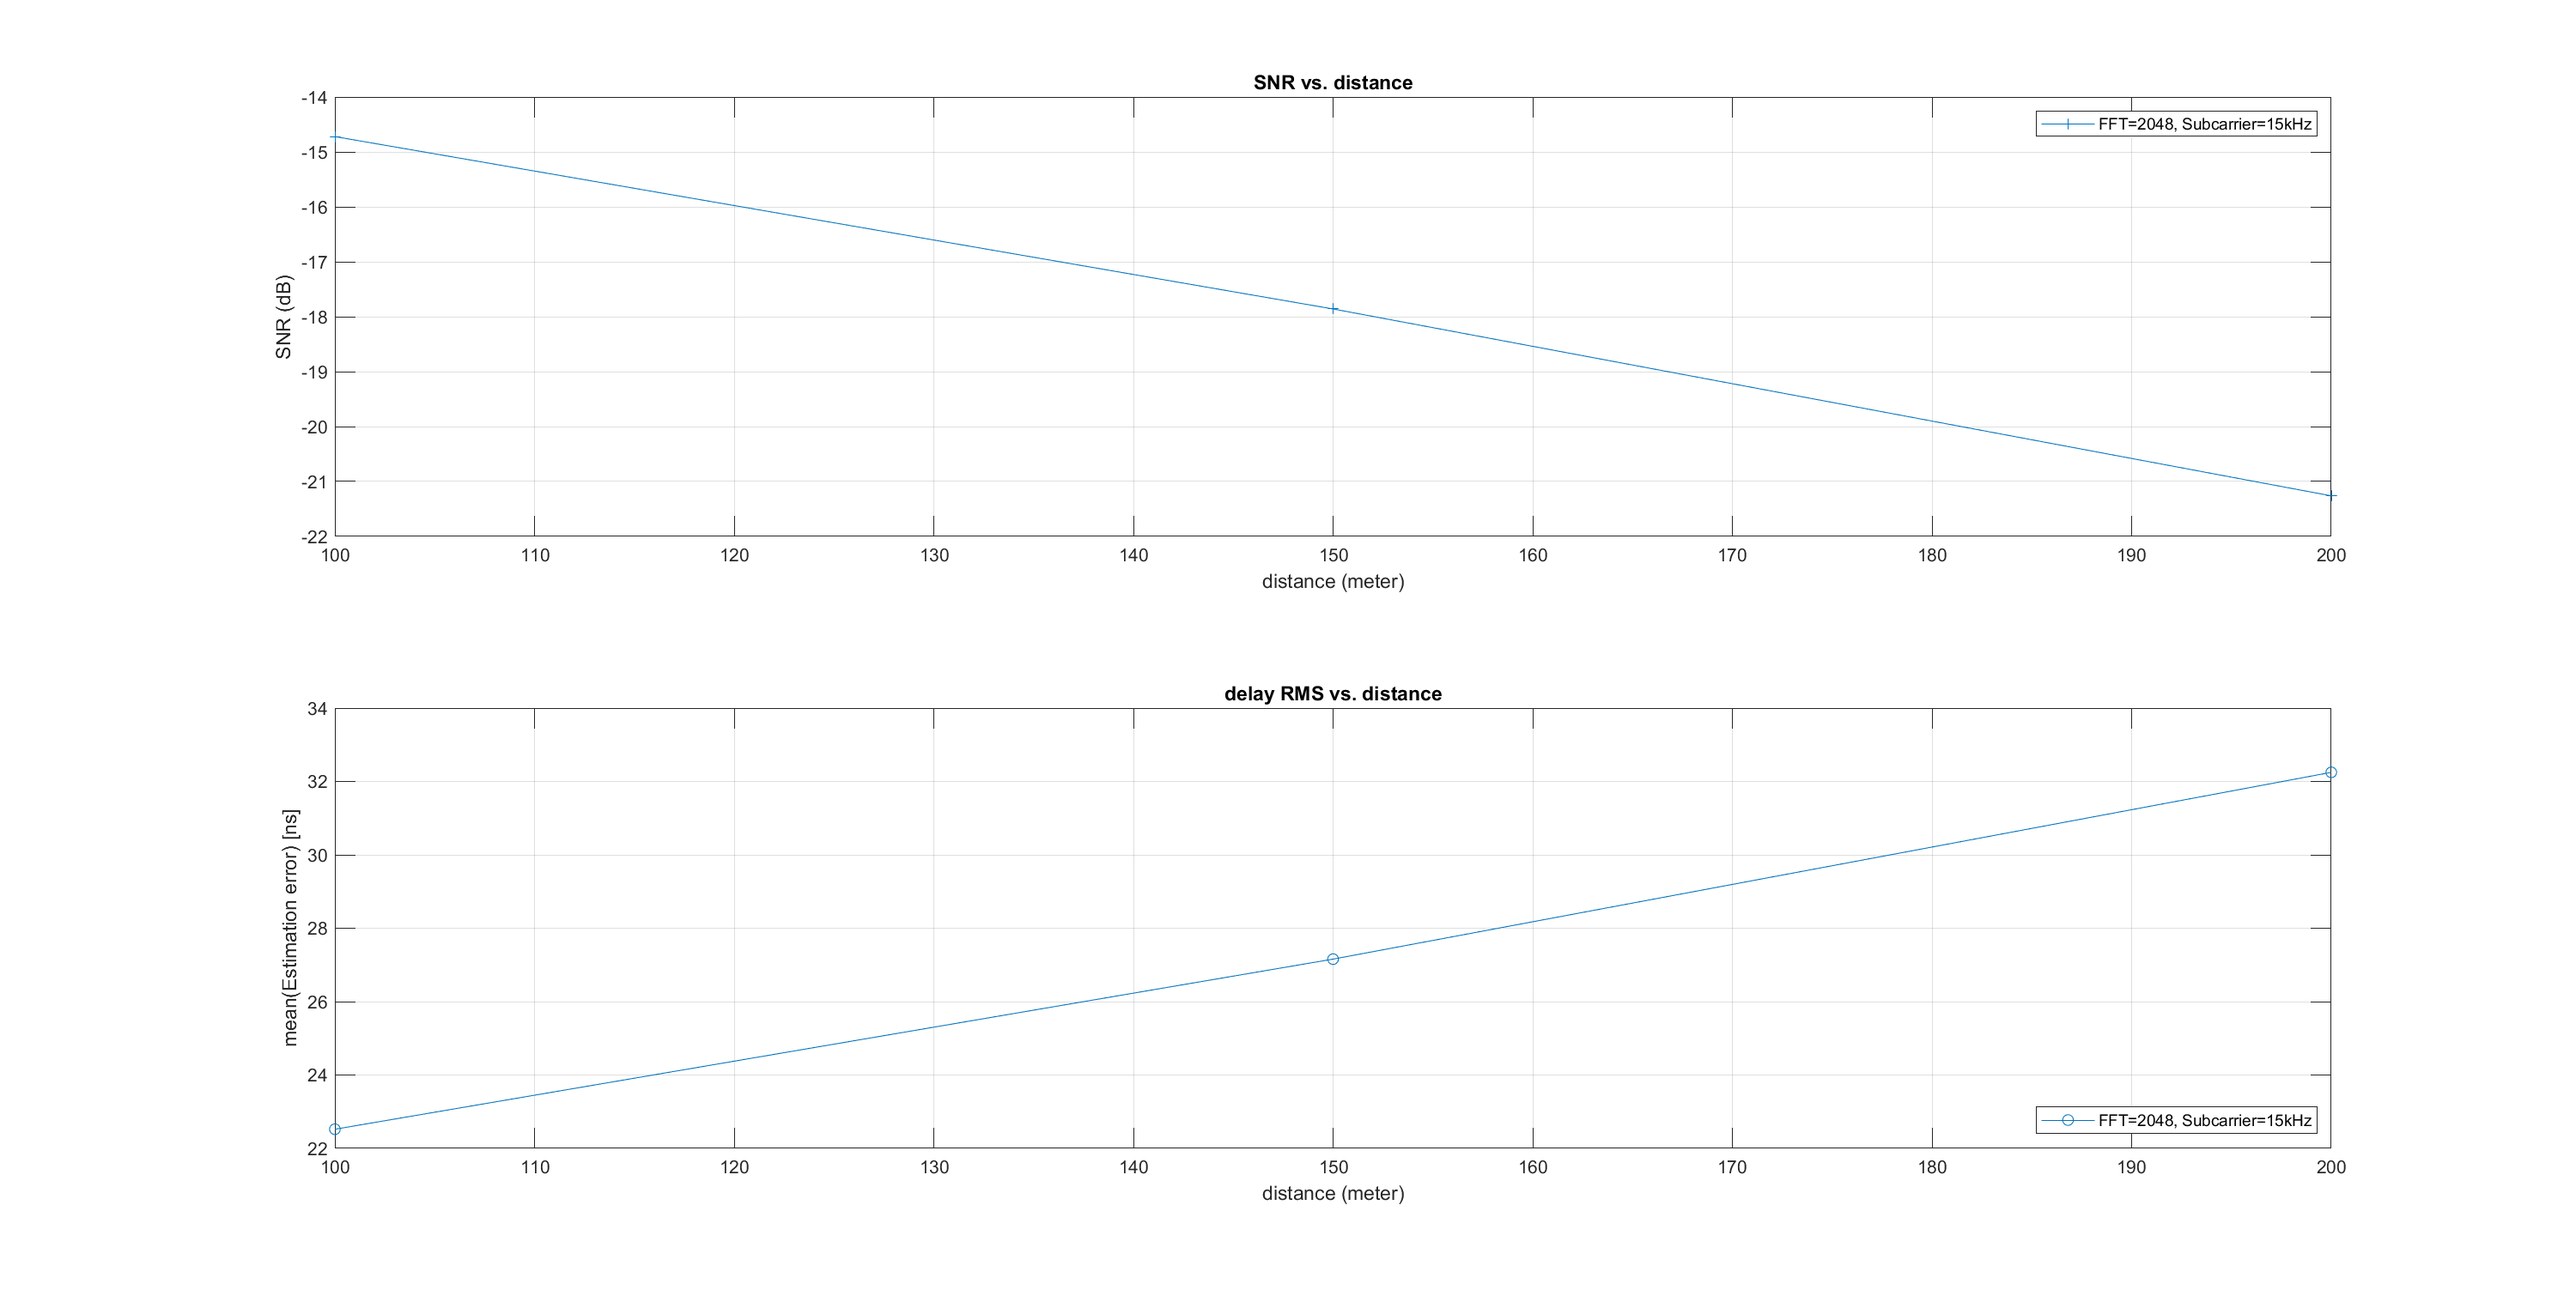
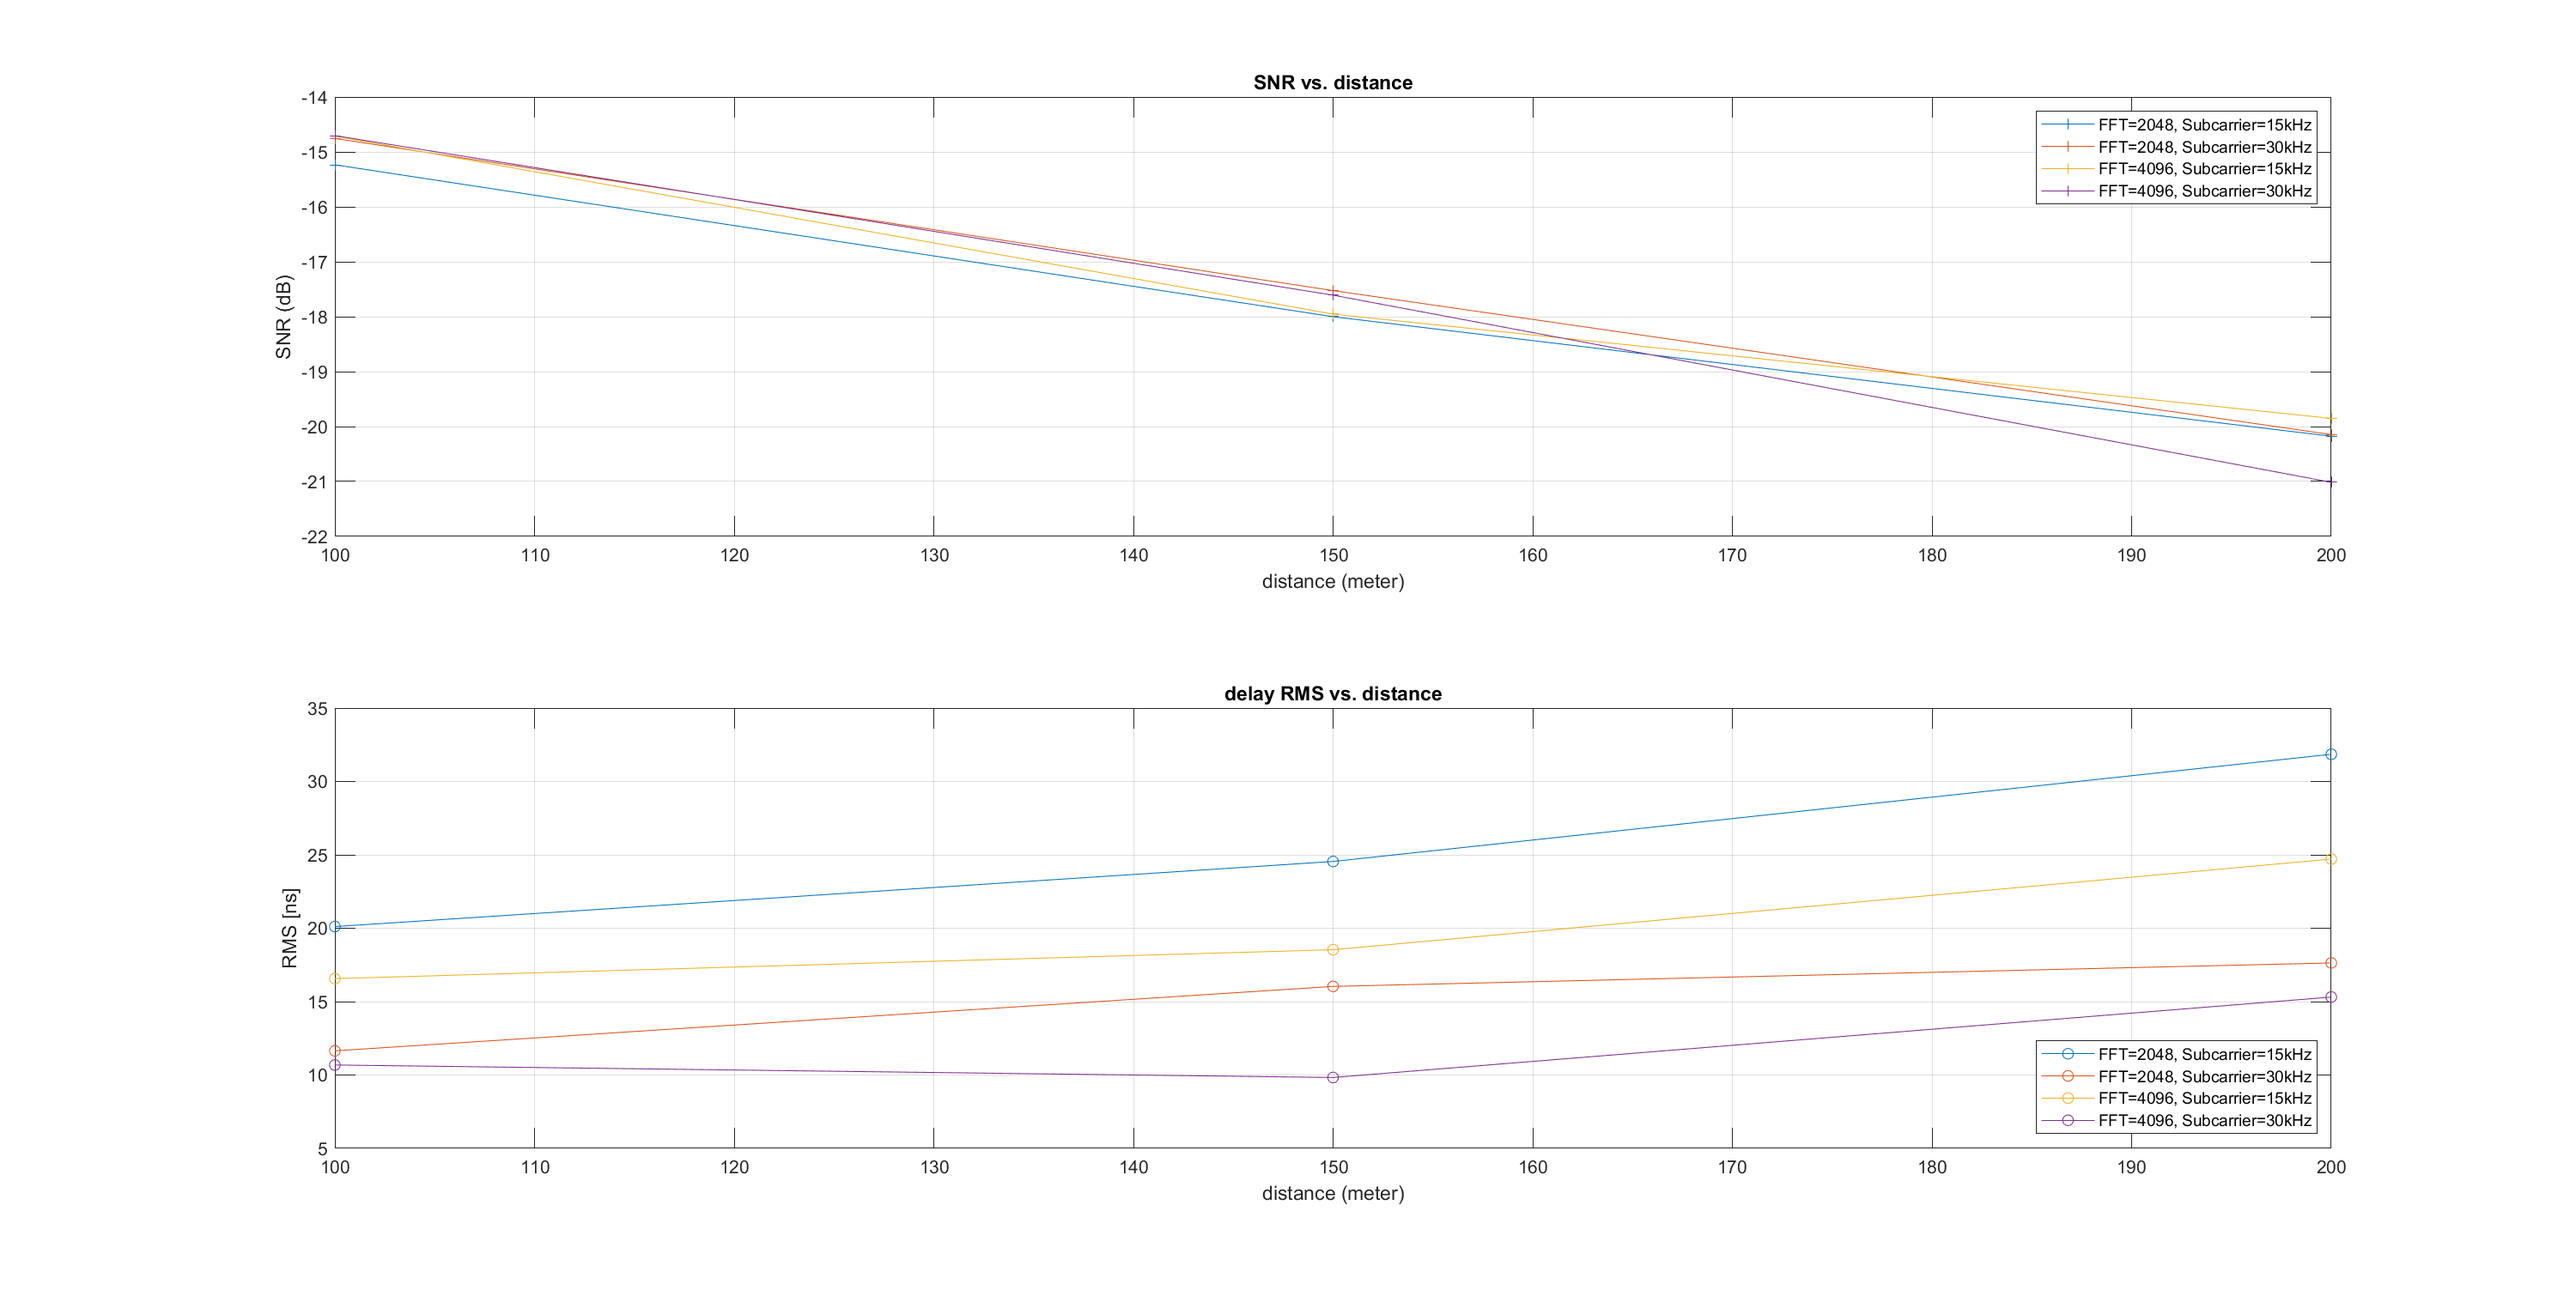
support shadowing for RMa

diff --git a/matlab/DelayEst_Test_36901_f.m b/matlab/DelayEst_Test_36901_f.m
@@ -4,7 +4,7 @@ num_of_sim = 100;       % number of simulation per SNR working point
 
 Gtx = 0;
 Grx = 0;
-d = [200 : -20 : 100 ];    % distance between base station and the UE in meters
+d = [200 : -50 : 100 ];    % distance between base station and the UE in meters
 f = 3e9;                % center frequency in Hz 
 c = 3e8;                % light speed m/s
 h_BS = 35;  % height of the base station
@@ -13,6 +13,10 @@ W = 20; % avg. street width
 h = 5; % avg. building height 
 f_c = 3.5e9; % 3.5GHz
 
+% initial the random seed
+seed = 1;
+s = RandStream('mt19937ar','Seed', seed);
+RandStream.setGlobalStream(s);
 
 debug_flag = 0;
 
@@ -47,27 +51,19 @@ for sub_scenario_i = 1 : numel(sub_scenarios)
             TimeEst_Err_Ts = zeros(num_of_sim, length(d));
 
             for d_idx = 1 : length(d)
-                fprintf('d=%d meter:\n', d(d_idx))
-                
+                fprintf('d=%d meter:\n', d(d_idx))               
                 d_2D = d(d_idx);         
-                FSPL = getPathLoss_f(h_BS, h_UT, d_2D, f_c, scenario, sub_scenario, h, W); %20 * log10(r1) + 20 * log10(f) + 20 * log10(4*pi/c)- Gtx - Grx;   % refer to https://www.everythingrf.com/rf-calculators/free-space-path-loss-calculator
-                channels_gains_dBm = Tx_pwr_dBm + Tx_power_scaling_dB + Tx_Gain + Fft_Scale_dB - FSPL;
-                channels_gains = 10 .^((channels_gains_dBm)/20);   
 
-                h = channels_gains;
                 for idx = 1 : num_of_sim
-
-    %                 if (mod(idx, 1) == 0)
-    %                     fprintf('.');
-    %                 end
-    %                 if (mod(idx, 1) == 0)
-    %                     fprintf('\n');                
-    %                 end
-                    seed = idx;
+                    FSPL = getPathLoss_f(h_BS, h_UT, d_2D, f_c, scenario, sub_scenario, h, W); %20 * log10(r1) + 20 * log10(f) + 20 * log10(4*pi/c)- Gtx - Grx;   % refer to https://www.everythingrf.com/rf-calculators/free-space-path-loss-calculator
+                    channels_gains_dBm = Tx_pwr_dBm + Tx_power_scaling_dB + Tx_Gain + Fft_Scale_dB - FSPL;
+                    channels_gains = 10 .^((channels_gains_dBm)/20);   
+                    h = channels_gains;
+                    
                     ideal_delay_second = d(d_idx) / c; % calculate the delay by distance (in second)
                     ideal_delay_Ts = ceil(ideal_delay_second / Ts_sec); % calculate the delay by distance (in Ts, i.e., sample)
                     ideal_delay_second_quantized = ideal_delay_Ts * Ts_sec;
-                    [SNRdB, TimeEstTs] = DelayEst_f(nFFT, subc, h, ideal_delay_Ts, seed, debug_flag); % execute delay estimation in UE side
+                    [SNRdB, TimeEstTs] = DelayEst_f(nFFT, subc, h, ideal_delay_Ts, debug_flag); % execute delay estimation in UE side
                     SNR_dB(idx, d_idx) = SNRdB;
                     TimeEst_Err_Ts(idx, d_idx) = TimeEstTs - ideal_delay_Ts;
                     TimeErr_sec(idx, d_idx) = (TimeEstTs * Ts_sec - ideal_delay_second_quantized);

diff --git a/matlab/getPathLoss_f.m b/matlab/getPathLoss_f.m
@@ -26,9 +26,9 @@ switch scenario
         
         switch LosOrNlos
             case 'LOS'
-                PL = PL_RMa_LOS;
+                PL = PL_RMa_LOS + normrnd(0, 4); % \sigma_SF = 4 dB in shadow fading
             case 'NLOS'
-                PL = PL_RMa_NLOS;
+                PL = PL_RMa_NLOS + normrnd(0, 6); % \sigma_SF = 6 dB in shado fading
             otherwise
                 error('Only LOS or NLOS is supported.\n');
         end

diff --git a/matlab/save_plot_results_f.m b/matlab/save_plot_results_f.m
@@ -22,7 +22,7 @@ for nFFT_i = 1 : length(nFFTs)
         plot(d, Time_Err_Var_sec{nFFT_i}{subc_i} * 1e9, '-o'); % plot the performance curve
         grid on;        
         xlabel('distance (meter)');
-        ylabel('mean(Estimation error) [ns]');
+        ylabel('RMS [ns]');
         title(sprintf('delay RMS vs. distance'));  
         hold on;
     end

diff --git a/matlab/DelayEst_f.m b/matlab/DelayEst_f.m
@@ -1,8 +1,4 @@
-function [SNRdB_o, TimeEstTs_o] = DelayEst_f(nFFT_i, subc_i, h_i, DelayTs_i, Seed_i, debug_i)
-
-% initial the random seed
-s = RandStream('mt19937ar','Seed', Seed_i);
-RandStream.setGlobalStream(s);
+function [SNRdB_o, TimeEstTs_o] = DelayEst_f(nFFT_i, subc_i, h_i, DelayTs_i, debug_i)
 
 nFFT = nFFT_i;
 subc = subc_i;
